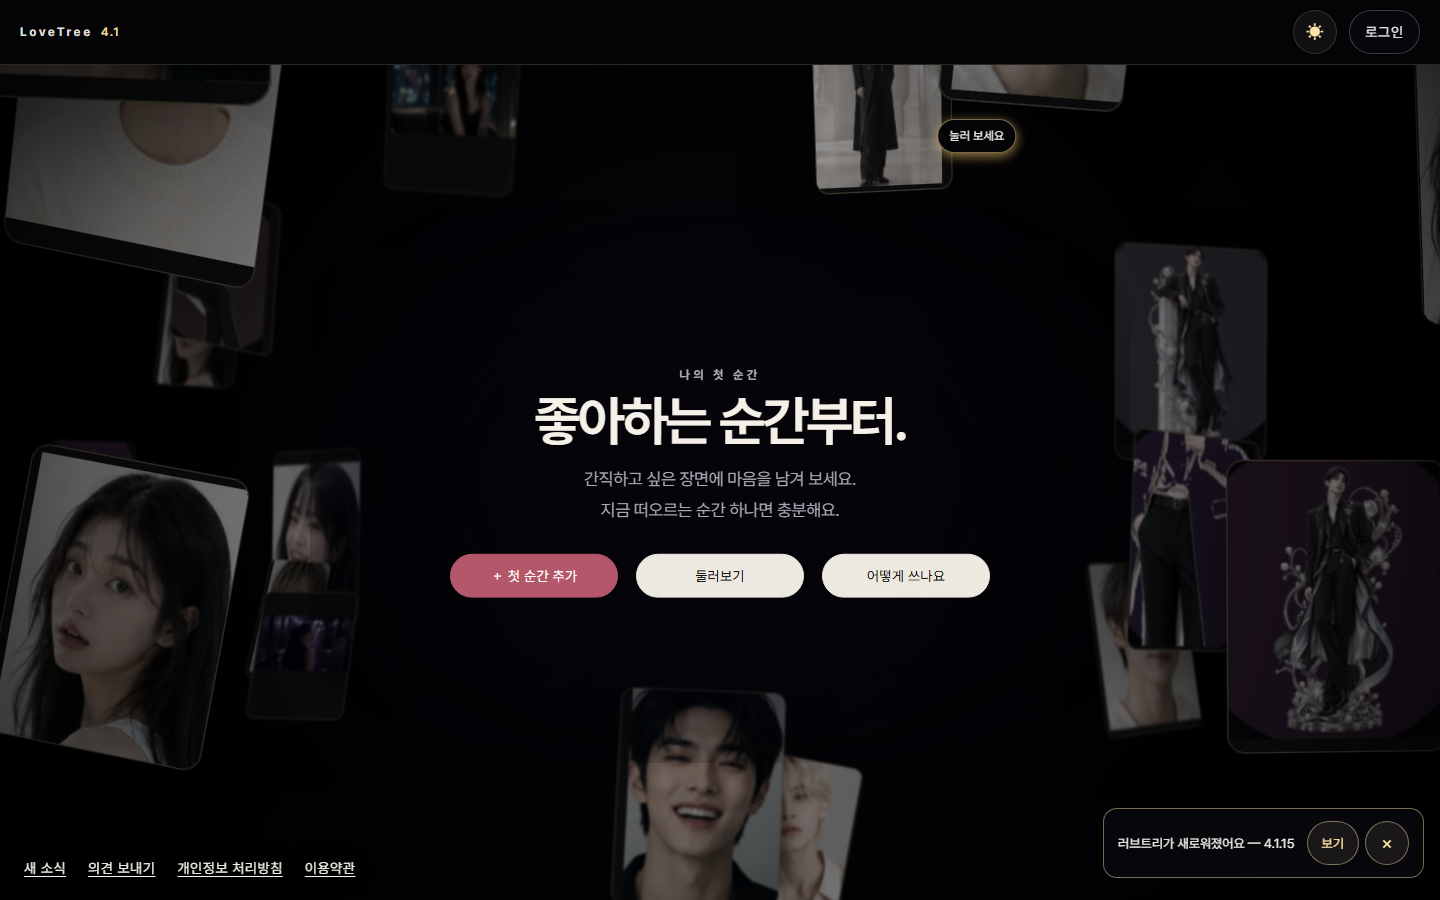
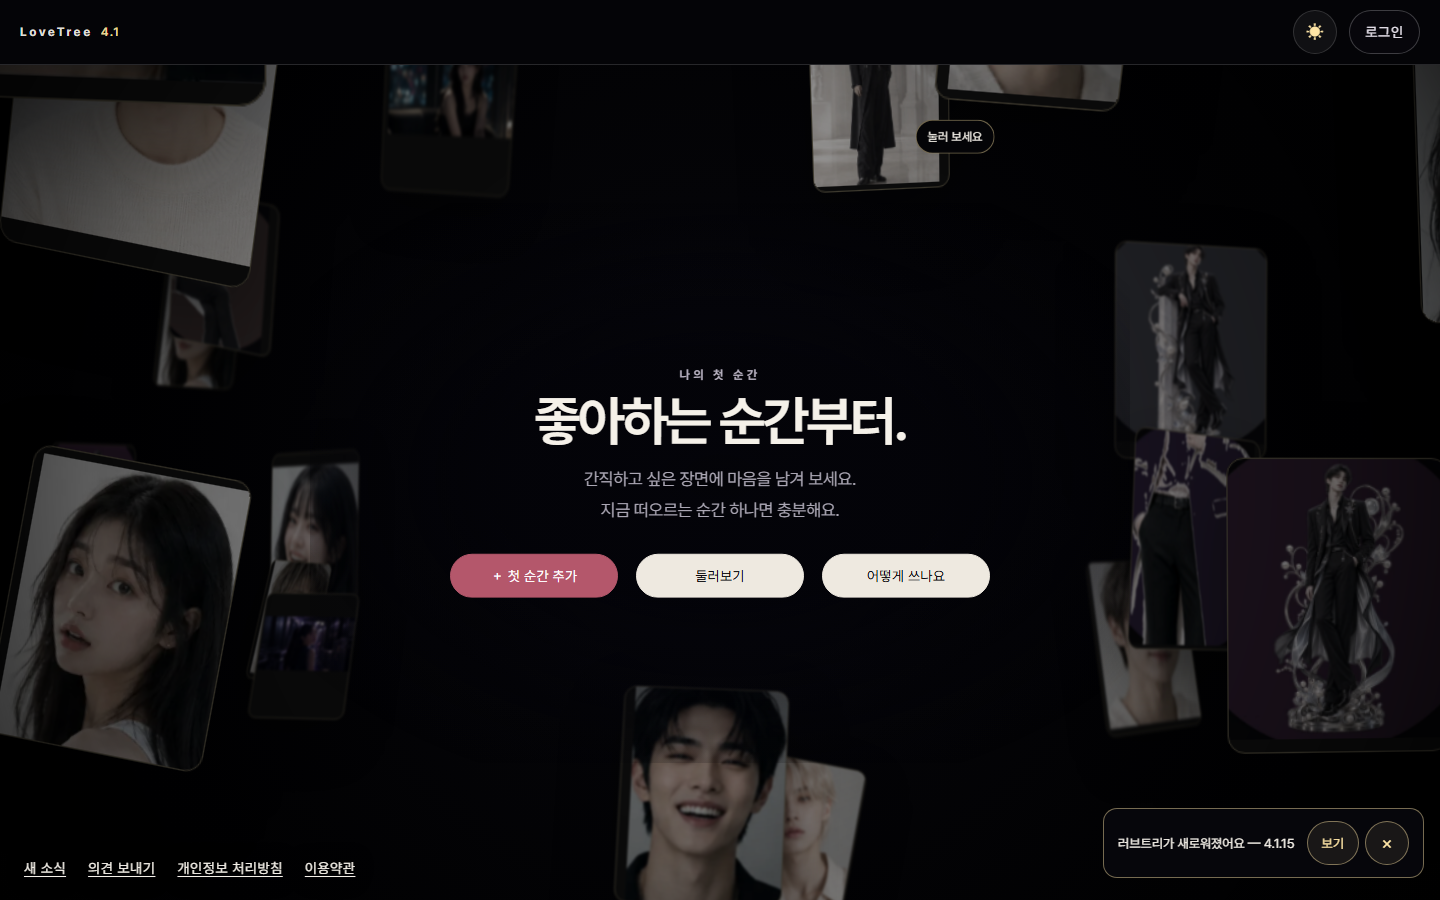
#1204 첫 화면 안내 성능과 기존 시험 계약 정리

diff --git a/src/views/orbit.js b/src/views/orbit.js
@@ -12,6 +12,7 @@ import samples from './orbit-samples.json';
 import compactOrbitImages from './orbit-compact.json';
 import {paintCardBitmap,cardPose,hitPose,hitProjective,sortPaintOrder} from './orbit-canvas.js';
 import {createOrbitGL} from './orbit-webgl.js';
+import {orbitHintSeen,rememberOrbitHint} from './orbit-hint-memory.js';
 import {escape as esc, orbitRecords, resume, remember} from './memory.js';
 import {SERVICE, GO_TREES, READ_BOOK, VIEW_TREE, NEW_TREE, BOOK_IS_READING} from '../terms.js';
 import {mediaLinkView} from '../media.js';
@@ -67,7 +68,7 @@ extraCSS+=`.card.lt-under-link{opacity:0}\n.card .surface .lt-orbit-texture{posi
 extraCSS+=`@keyframes lt-home-rise{from{opacity:0;transform:translateY(12px)}to{opacity:1;transform:translateY(0)}}
 .center .lt-home-line{display:block}.center .lt-home-enter{animation:lt-home-rise 460ms cubic-bezier(.2,.7,.2,1) both;animation-delay:calc(var(--lt-home-order)*100ms)}
 @media(prefers-reduced-motion:reduce){.center .lt-home-enter{animation:none;opacity:1;transform:none}}
-.lt-orbit-tip{position:absolute;z-index:5;left:0;top:0;display:none;pointer-events:none;padding:7px 11px;border:1px solid var(--lt-gold-line);border-radius:999px;background:var(--lt-stage);color:var(--lt-pearl);font-size:12px;line-height:18px;white-space:nowrap;box-shadow:0 3px 12px var(--lt-gold-glow);transform:translate3d(var(--lt-tip-x,0px),var(--lt-tip-y,0px),0)}
+.lt-orbit-tip{position:absolute;z-index:5;left:0;top:0;display:none;pointer-events:none;padding:7px 11px;border:1px solid var(--lt-gold-line);border-radius:999px;background:var(--lt-stage);color:var(--lt-pearl);font-size:12px;line-height:18px;white-space:nowrap;contain:paint;will-change:transform;transform:translate3d(var(--lt-tip-x,0px),var(--lt-tip-y,0px),0)}
 .lt-orbit-tip[data-visible]{display:block}`;
 
 export function mountOrbit(host,{trees,storage,context,actions,authHtml='',onSelect=()=>{},recordNote=null,examples=[],onOpen=null,empty=false,titleDisplay='both',momentList=null,dateStyle='dot',prefs=null,initialPicking=false,initialNotice=null,homePin=null,loggedIn}) {
@@ -435,10 +436,8 @@ shadow.addEventListener('click',e=>{const play=e.target.closest('[data-recent-pl
  checkRecentVideo(shadow.querySelector('.recent-card'));
 // #1204: per-device first-use hint; failure to access storage must not block cards.
  const orbitTip=shadow.querySelector('.lt-orbit-tip');
- const TIP_KEY='lt41-orbit-card-opened';
- let tipDismissed=false,tipReady=false,tipLast=0,tipTarget=-1,tipPinned=false;
- try{tipDismissed=localStorage.getItem(TIP_KEY)==='1';}catch{}
- function dismissOrbitTip(){tipDismissed=true;orbitTip.removeAttribute('data-visible');try{localStorage.setItem(TIP_KEY,'1');}catch{}}
+ let tipDismissed=orbitHintSeen(),tipReady=false,tipLast=0,tipTarget=-1,tipPinned=false;
+ function dismissOrbitTip(){tipDismissed=true;orbitTip.removeAttribute('data-visible');rememberOrbitHint();}
  const tipTimer=setTimeout(()=>{tipReady=true;if(reduced)tipPinned=false;orbitWrite(performance.now());},1900);
  track(()=>clearTimeout(tipTimer));
 
@@ -671,7 +670,7 @@ performance.mark('m2'); const elements=cards.map(c=>{const b=document.createElem
  const updateOrbitTip=(now)=>{
   if(!tipReady||tipDismissed||!spritesReady||!layoutBox){orbitTip.removeAttribute('data-visible');return;}
   if(reduced&&tipPinned)return;
-  if(now-tipLast<120)return;
+  if(now-tipLast<420)return;
   tipLast=now;
   const {w,h}=layoutBox,tw=105,th=34,ox=appBox?.left||0,oy=appBox?.top||0;
   const inside=(x,y)=>x>=4&&y>=4&&x+tw<=w-4&&y+th<=h-4;

diff --git a/src/views/orbit-hint-memory.js b/src/views/orbit-hint-memory.js
@@ -1,0 +1,8 @@
+// #1204: First-use guidance is device-scoped, never part of a member's records.
+const KEY='lt41-orbit-card-opened';
+export function orbitHintSeen(){
+ try{return globalThis.localStorage?.getItem(KEY)==='1';}catch{return false;}
+}
+export function rememberOrbitHint(){
+ try{globalThis.localStorage?.setItem(KEY,'1');}catch{}
+}
